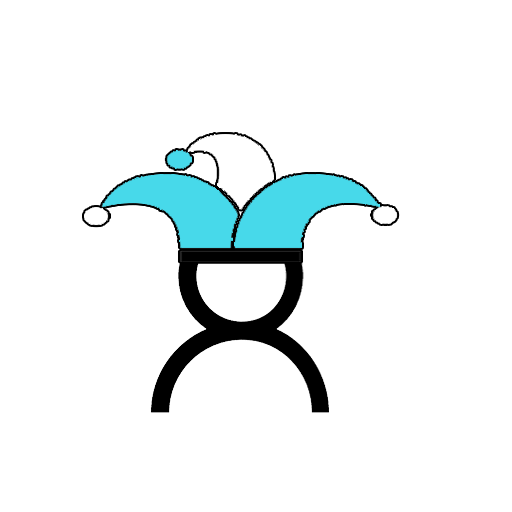
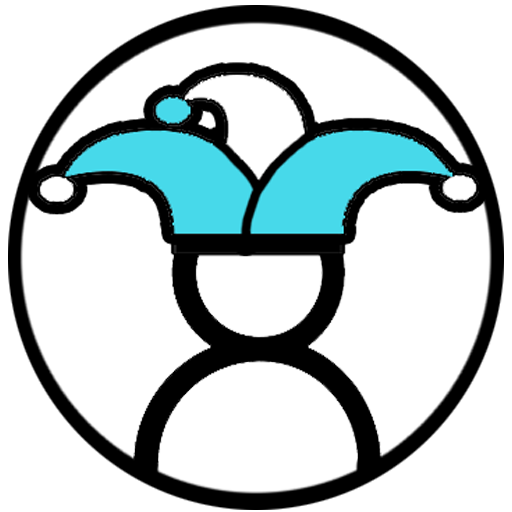
se actualiza icono de login y fondo. Agrego Fuente elegina en Whatsapp a variables

Changed region(s): [[0.0, 0.0, 1.0, 1.0]]

diff --git a/site_TiendArgenta/public/css/variables.css b/site_TiendArgenta/public/css/variables.css
@@ -1,5 +1,5 @@
-/* Fuente a utilizar */
-@import url();
+/* Fuente a utilizar MONTSERRAT*/
+@import url('https://fonts.googleapis.com/css2?family=Montserrat:wght@300;400;500;700&display=swap%27');
 
 :root{
     /* Colores */
@@ -10,6 +10,7 @@
     --dorado: #BFB063;
     
     /* Fuentes */
+    --font: 'Montserrat', sans-serif;
 
 
 

diff --git a/site_TiendArgenta/public/css/general.css b/site_TiendArgenta/public/css/general.css
@@ -4,10 +4,5 @@
     margin: 0;
 }
 body{
-    background-image: url(/images/home/FondoPagina.jpg);
-}
-a{
-    color: black;
-    text-decoration: none;
-    /*font-size: var(--font-size-descripciones);*/
+    background-image: url(/images/home/FondoPagina.png);
 }

diff --git a/site_TiendArgenta/views/home.html b/site_TiendArgenta/views/home.html
@@ -10,6 +10,7 @@
       src="https://kit.fontawesome.com/9c9712e45b.js"
       crossorigin="anonymous"
     ></script>
+    <link rel="stylesheet" href="path/to/font-awesome/css/font-awesome.min.css">
   </head>
 
   <body class="home">
